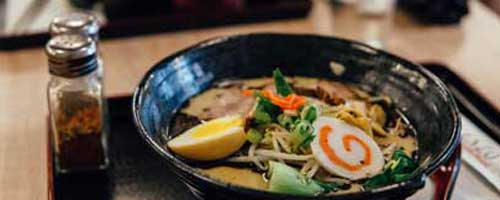
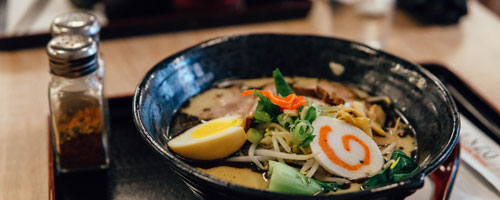
updated images on cards

diff --git a/css/stylesheet.css b/css/stylesheet.css
@@ -314,7 +314,7 @@ ol {
             
         }
         .fc-card.style-6 {
-            background-image: url(../images/thai_2.jpg); /* Credit: Timothy Dykes. Unsplash. https://unsplash.com/photos/V82GYnR98lY */
+            background-image: url(../images/thai.jpg); /* Credit: Timothy Dykes. Unsplash. https://unsplash.com/photos/V82GYnR98lY */
             /* or background images, etc etc */
             
         }
